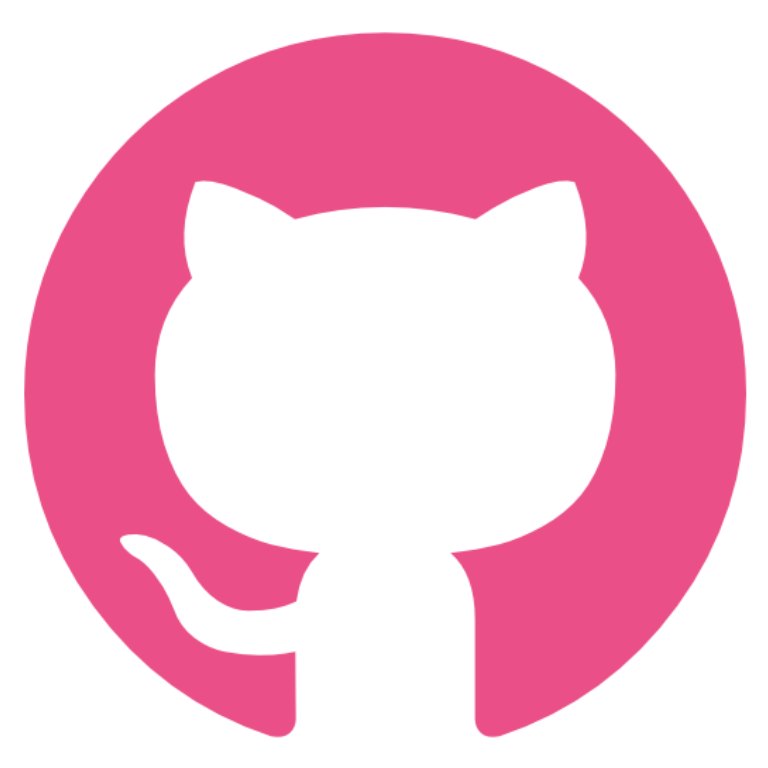
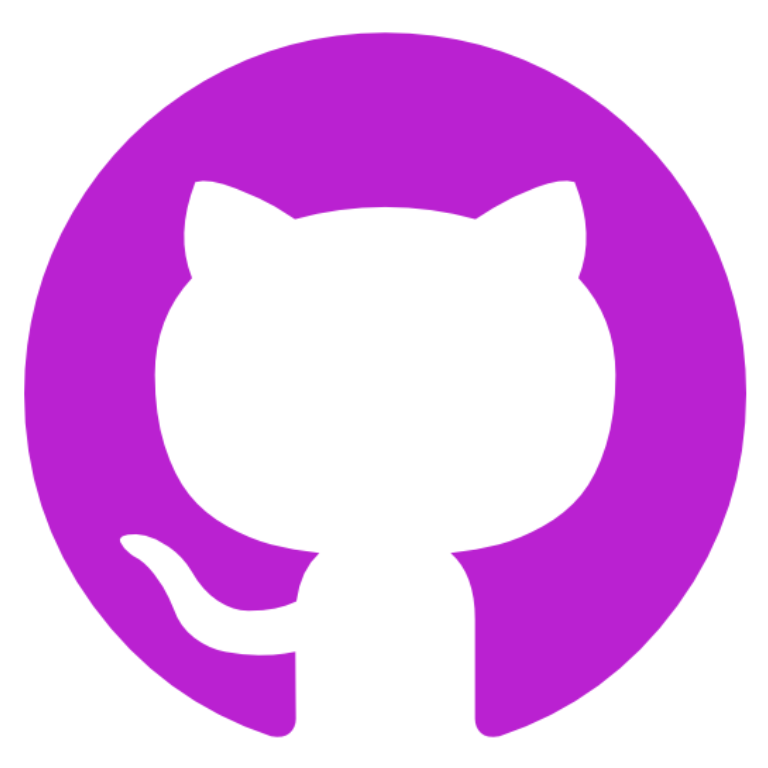
Troca de cores

diff --git a/src/styles/theme.ts b/src/styles/theme.ts
@@ -1,8 +1,8 @@
 const theme = {
   colors: {
-    blackEerie: '#1F131F',
-    blackRaisin: '#212121',
-    pinkDark: '#EA4F87',
+    blackEerie: '#19041c',
+    blackRaisin: '#19151c',
+    pinkDark: '#ba21d1',
     whiteGost: '#F9F9F9',
     grayTaupe: '#8A8989'
   },

diff --git a/src/styles/global.ts b/src/styles/global.ts
@@ -8,7 +8,7 @@ export const GlobalStyle = createGlobalStyle`
   }
 
   body {
-    background-color: #1F131F;
+    background-color: #19041c;
     color: #F9F9F9;
     -webkit-font-smoothing: antialiased;
   }
